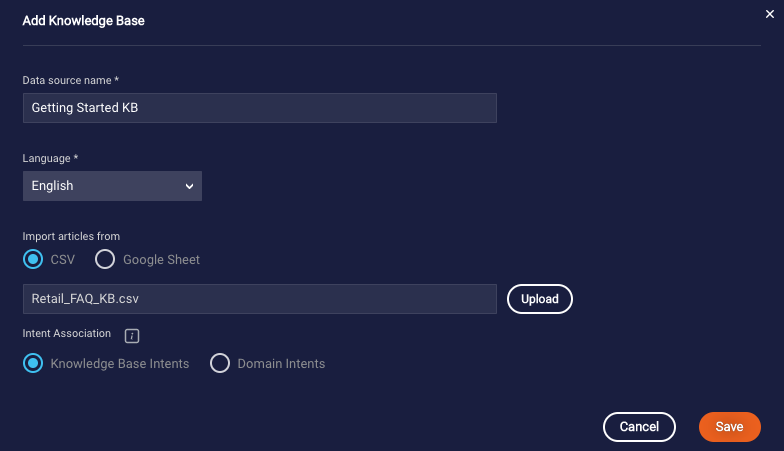
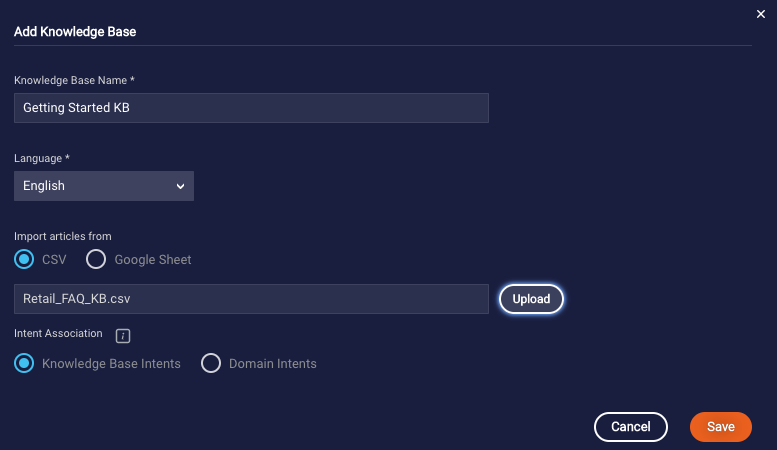
Update Step 8 in adv tutorial

diff --git a/pages/Documents/ConversationalAI/Tutorials&Guides/BotGroups&OtherTechniques/knowledge-bases.md b/pages/Documents/ConversationalAI/Tutorials&Guides/BotGroups&OtherTechniques/knowledge-bases.md
@@ -10,7 +10,7 @@ permalink: tutorials-guides-bot-groups-other-techniques-knowledge-bases.html
 indicator: both
 ---
 
-Brands often have static content, such as frequently asked questions, that can be addressed through automations and delivered with Conversation Builder. As opposed to creating new dialogs and specific interactions to handle these use cases, the Conversational Cloud provides Knowledge Base support to provide a seamless experience in delivering this content. A common design pattern at LivePerson is to include this Knowledge Base access in our Fallback Dialog, as a last check before triggering our Fallback interaction. In this section, we will be creating a new Knowledge Base, which will be accessed in the Fallback dialog located in our Greeter Bot.
+Brands often have static content, such as frequently asked questions, that can be addressed through bots and delivered with Conversation Builder. Instead of creating new dialogs and specific interactions to handle these use cases, Conversational Cloud provides Knowledge Base support to provide a seamless experience in delivering this content. A common design pattern at LivePerson is to include Knowledge Base access in the Fallback Dialog, as a last check before triggering the Fallback interaction. In this section, you create a new Knowledge Base, which will be accessed in the Fallback dialog located in the Greeter Bot.
 
 ### Watch the video
 
@@ -19,16 +19,16 @@ Brands often have static content, such as frequently asked questions, that can b
 
 ### Step 8: Create the FAQ knowledge base
 
-In this step, a new FAQ knowledge base will be created using an existing CSV file. This demonstration will also show how to add additional FAQ articles to your knowledge base.
+In this step, you create a new FAQ knowledge base using an existing CSV file. This demonstration also shows how to add additional FAQ articles to your knowledge base.
 
 1. From the **Conversational AI** section of the Conversational Cloud, navigate to the **Knowledge Base** section.
 
     <img class="fancyimage" style="width:300px" src="img/ConvoBuilder/advtutorial/kb_app_option.png">
 
-2. Click on the **Add Knowledge Base** in the upper-right corner.
+2. Click **Add Knowledge Base** in the upper-right corner.
 3. On the **AI Enabled** tab of the window that appears, select **Internal Knowledge Base**. 
 4. Specify the following:
-    * **Data source name**: Getting Started KB
+    * **Knowledge Base Name**: Getting Started KB
     * **Language**: English
     * **Import articles from**: CSV
     * **CSV File**: Download and select this [Retail FAQ file](https://static-assets.fs.liveperson.com/csbs/Retail_FAQ_KB.csv) as a starting point. Click **Upload**.
@@ -38,11 +38,11 @@ In this step, a new FAQ knowledge base will be created using an existing CSV fil
 
     Click **Save** in the lower-right corner.
 
-5. After the KB has been created, we are presented with the various articles contained within our knowledge base. Selecting any individual article, we can see that each article contains intent qualifiers, which the NLU engine will use in conjunction with tags to match user intents to a specific article.
+5. After the KB has been created, you are presented with the various articles contained within the knowledge base. Selecting any, individual article, you can see that each article contains intent qualifiers, which the NLU engine will use in conjunction with tags to match user intents to a specific article.
 
     <img class="fancyimage" style="width:800px" src="img/ConvoBuilder/advtutorial/kb_samplearticle.png">
 
-6. Back in our Getting Started KB page, click the **Add New** button from the upper-right corner to build upon our provided FAQ content. In the resulting **Add Article** form, complete with the following information: 
+6. Back in the Getting Started KB page, click **Add New** in the upper-right corner to build upon our provided FAQ content. In the resulting **Add Article** form, complete with the following information: 
     * **Title**: When are you open?
     * **Intent Qualifiers**: 
         * What are your hours of operation?
@@ -54,17 +54,17 @@ In this step, a new FAQ knowledge base will be created using an existing CSV fil
 
 	Click **Save** in the lower-right corner.
 
-7. Back in the **Getting Started KB** menu, confirm that the newly created article has been included in your list of articles. Note the **Inactive** designation, as all newly created articles will need to be enabled prior to being accessible.
+7. Back in the **Getting Started KB** page, confirm that the newly created article has been included in your list of articles. Note the **Inactive** designation, as all newly created articles will need to be enabled prior to being accessible.
 
     <img class="fancyimage" style="width:800px" src="img/ConvoBuilder/advtutorial/kb_article_inactive.png">
 
 	Click the article title, scroll down to the **Enable Article** setting, and turn it on. Click **Save**.
 
-    Our Knowledge Base has now been created and expanded upon.
+    The knowledge base has now been created and expanded upon.
 
     <img class="fancyimage" style="width:800px" src="img/ConvoBuilder/advtutorial/kb_article_list.png">
 
-    Navigating back to Conversation Builder, we will provide an integration to access and display this content.
+    Navigating back to Conversation Builder, next you will provide an integration to access and display this content.
 
 ### Step 9: Create the Knowledge Base integration in the Fallback Dialog
 
